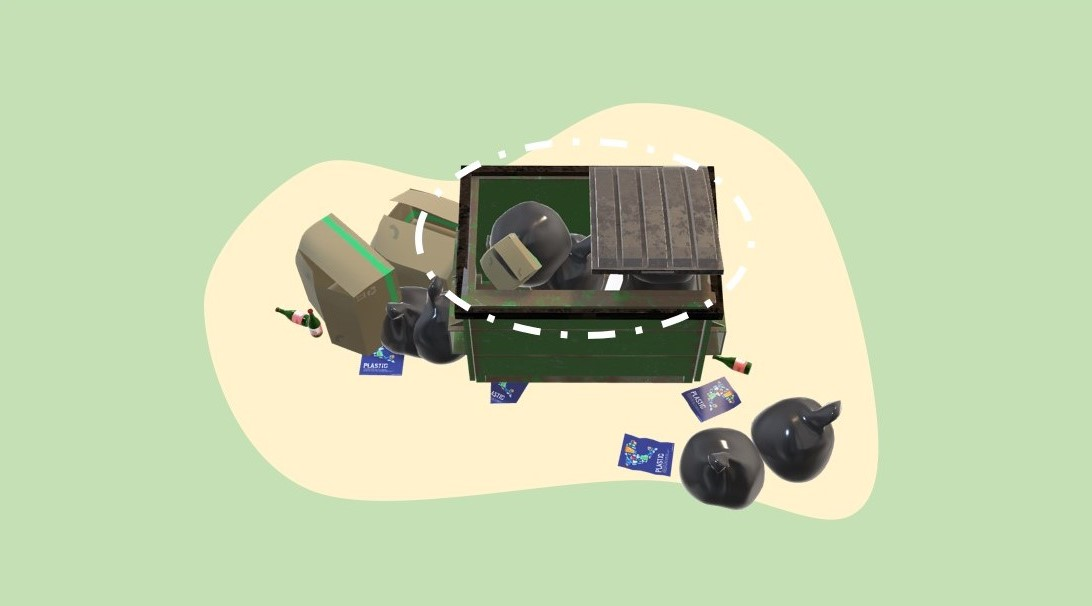
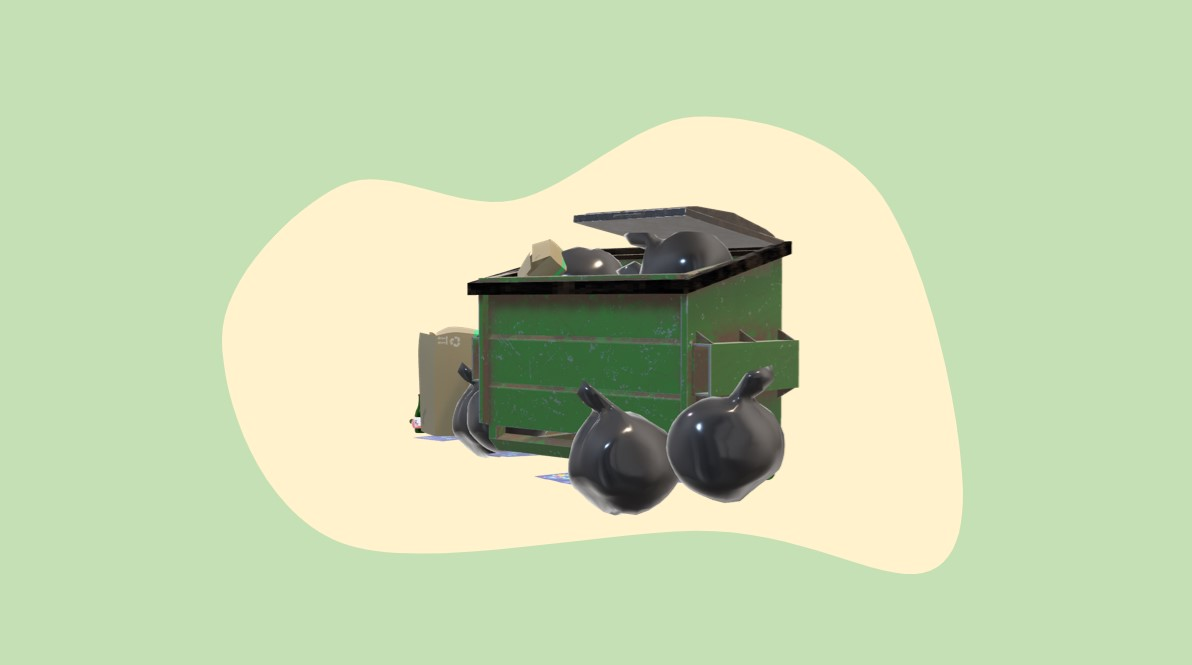
fix: missing details

diff --git a/src/components/home/ProblemStatement.vue b/src/components/home/ProblemStatement.vue
@@ -37,8 +37,15 @@
 						],
 					},
 					{
-						title: "Bad Dustbin Condition",
+						title: "Dustbin Are Always Overflowing",
 						src: require("@/assets/problems/problem2.jpg"),
+						text: [
+							"Inconsistent trash volume making it is hard to maintain"
+						],
+					},
+					{
+						title: "Bad Dustbin Condition",
+						src: require("@/assets/problems/problem3.jpg"),
 						text: [
 							"Open lid and the smell of garbage will attract wild animal to scavenge and make a mess around the area"
 						],
